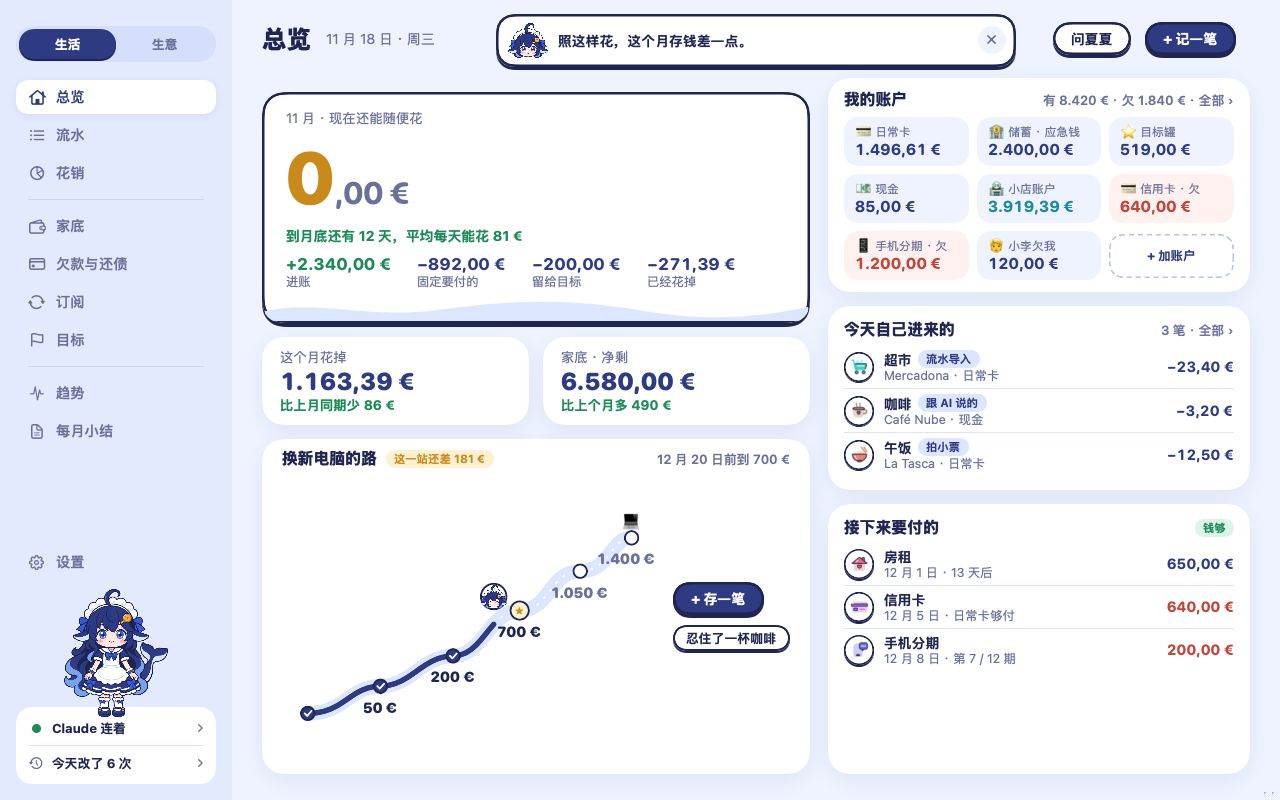
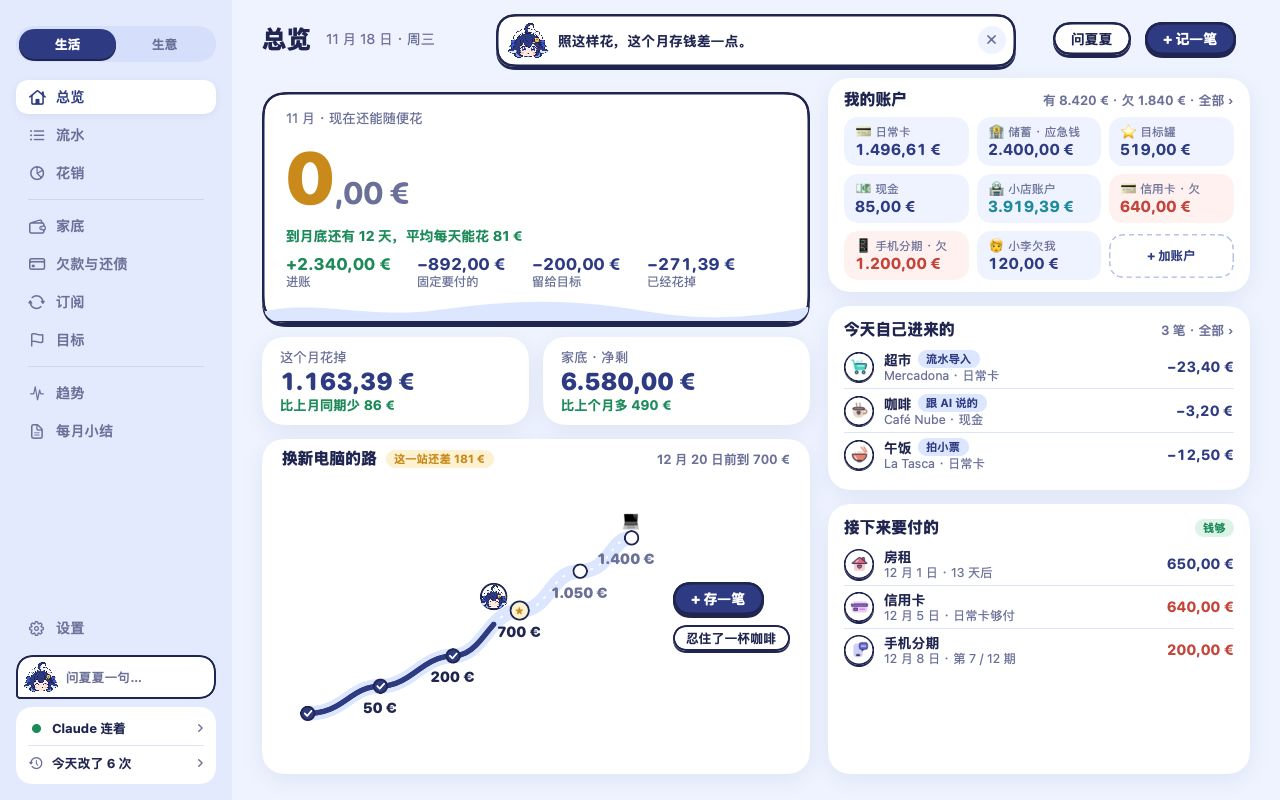
界面 v3：左下角站着的夏夏换成一个像对话框的「问夏夏」（小头像 + 一句占位）

Changed region(s): [[0.0, 0.7188, 0.1875, 0.9062], [0.0312, 0.6875, 0.0625, 0.7188]]

diff --git a/Sources/LedgerUI/V3/V3Root.swift b/Sources/LedgerUI/V3/V3Root.swift
@@ -344,11 +344,9 @@ private struct V3Sidebar: View {
                 }
                 .buttonStyle(V3SinkStyle(depth: 2)).help("账本不动，只换 app 本身")
             }
-            // 夏夏站在这张卡上面（ming 2026-11-28）。点她就是「问夏夏」。设置里关了「显示夏夏」就不放。
-            VStack(spacing: -10) {
-                if state.prefs.showXia { V3SidebarXia().zIndex(1) }
-                statusCard(linked: linked, ai: ai, changes: changes)
-            }
+            // 卡片上面放一个像对话框的「问夏夏」（ming 2026-11-28：不要站着的人，要像一个对话框）。
+            V3SidebarXia()
+            statusCard(linked: linked, ai: ai, changes: changes)
         }
     }
 
@@ -383,28 +381,32 @@ private struct V3Sidebar: View {
     private func strip(_ m: Money) -> String { m.v3Short.replacingOccurrences(of: "\u{00A0}€", with: "") }
 }
 
-/// 左边栏底部站在卡片上的夏夏。图只在这一处引用（`V3SidebarXia.asset`），以后角色定了新样子，换这一个名字就行。
+/// 左边栏底部的「问夏夏」：小头像 + 一个像输入框的对话框，点了打开整页聊天。有一句话没看时，对话框里就是那句话的小红点。
+/// 头像只在这一处引用（`V3SidebarXia.asset`），以后角色定了新样子，换这一个名字就行。
 private struct V3SidebarXia: View {
-    static let asset = "xia-full"
+    static let asset = "head-happy"
     @Environment(V3State.self) private var state
     @State private var hover = false
 
     var body: some View {
         Button { state.openChat() } label: {
-            V3.image(Self.asset).resizable().scaledToFit().frame(width: 104)
-                .overlay(alignment: .topTrailing) {
-                    // 有一句话没看：和「问夏夏」按钮上的小红点同步
-                    if state.sayUnreadID != nil {
-                        Circle().fill(V3.red).overlay(Circle().strokeBorder(.white, lineWidth: 2)).frame(width: 13, height: 13).offset(x: -8, y: 14)
-                    }
-                }
-                .offset(y: hover ? -4 : 0)
-                .animation(.spring(duration: 0.25, bounce: 0.5), value: hover)
-                .contentShape(Rectangle())
+            HStack(spacing: 8) {
+                if state.prefs.showXia { V3.image(Self.asset).resizable().scaledToFit().frame(width: 34, height: 30) }
+                Text(state.sayUnreadID != nil ? "\(state.prefs.xiaName)有一句话" : "问\(state.prefs.xiaName)一句…")
+                    .font(V3.font(13, .semibold)).foregroundStyle(state.sayUnreadID != nil ? V3.ink : V3.ink2).lineLimit(1)
+                Spacer(minLength: 0)
+                if state.sayUnreadID != nil { Circle().fill(V3.red).frame(width: 9, height: 9) }
+            }
+            .padding(.leading, 8).padding(.trailing, 12).padding(.vertical, 7)
+            .background(
+                UnevenRoundedRectangle(topLeadingRadius: 16, bottomLeadingRadius: 4, bottomTrailingRadius: 16, topTrailingRadius: 16)
+                    .fill(.white)
+                    .overlay(UnevenRoundedRectangle(topLeadingRadius: 16, bottomLeadingRadius: 4, bottomTrailingRadius: 16, topTrailingRadius: 16).strokeBorder(V3.ink, lineWidth: hover ? 2.5 : 2)))
+            .contentShape(Rectangle())
         }
-        .buttonStyle(.plain)
+        .buttonStyle(V3SinkStyle(depth: 2))
         .onHover { hover = $0 }
-        .help("问\(state.prefs.xiaName)")
+        .help("问\(state.prefs.xiaName)（⌘K）")
         .accessibilityLabel("问\(state.prefs.xiaName)")
     }
 }
